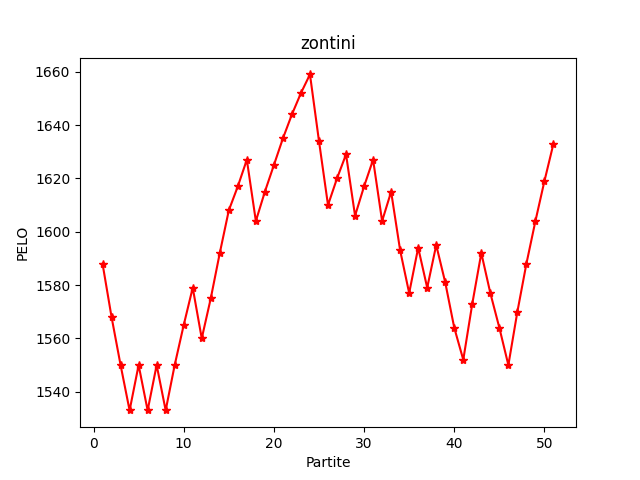
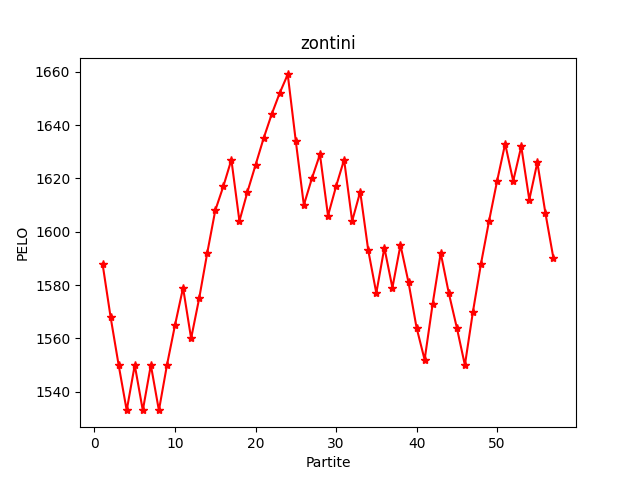
Add files via upload

diff --git a/index.htm b/index.htm
@@ -18,20 +18,20 @@
     <tr>
       <th>0</th>
       <td><a href='malvagi.png'>malvagi</a></td>
-      <td>1670</td>
-      <td>55</td>
-      <td>34</td>
-      <td>561</td>
-      <td>512</td>
+      <td>1647</td>
+      <td>58</td>
+      <td>35</td>
+      <td>595</td>
+      <td>552</td>
     </tr>
     <tr>
       <th>1</th>
-      <td><a href='zontini.png'>zontini</a></td>
-      <td>1633</td>
-      <td>143</td>
-      <td>77</td>
-      <td>1436</td>
-      <td>1367</td>
+      <td><a href='castellani.png'>castellani</a></td>
+      <td>1627</td>
+      <td>278</td>
+      <td>120</td>
+      <td>2568</td>
+      <td>2788</td>
     </tr>
     <tr>
       <th>2</th>
@@ -53,12 +53,12 @@
     </tr>
     <tr>
       <th>4</th>
-      <td><a href='castellani.png'>castellani</a></td>
-      <td>1553</td>
-      <td>271</td>
-      <td>115</td>
-      <td>2497</td>
-      <td>2725</td>
+      <td><a href='zontini.png'>zontini</a></td>
+      <td>1590</td>
+      <td>149</td>
+      <td>79</td>
+      <td>1501</td>
+      <td>1434</td>
     </tr>
     <tr>
       <th>5</th>
